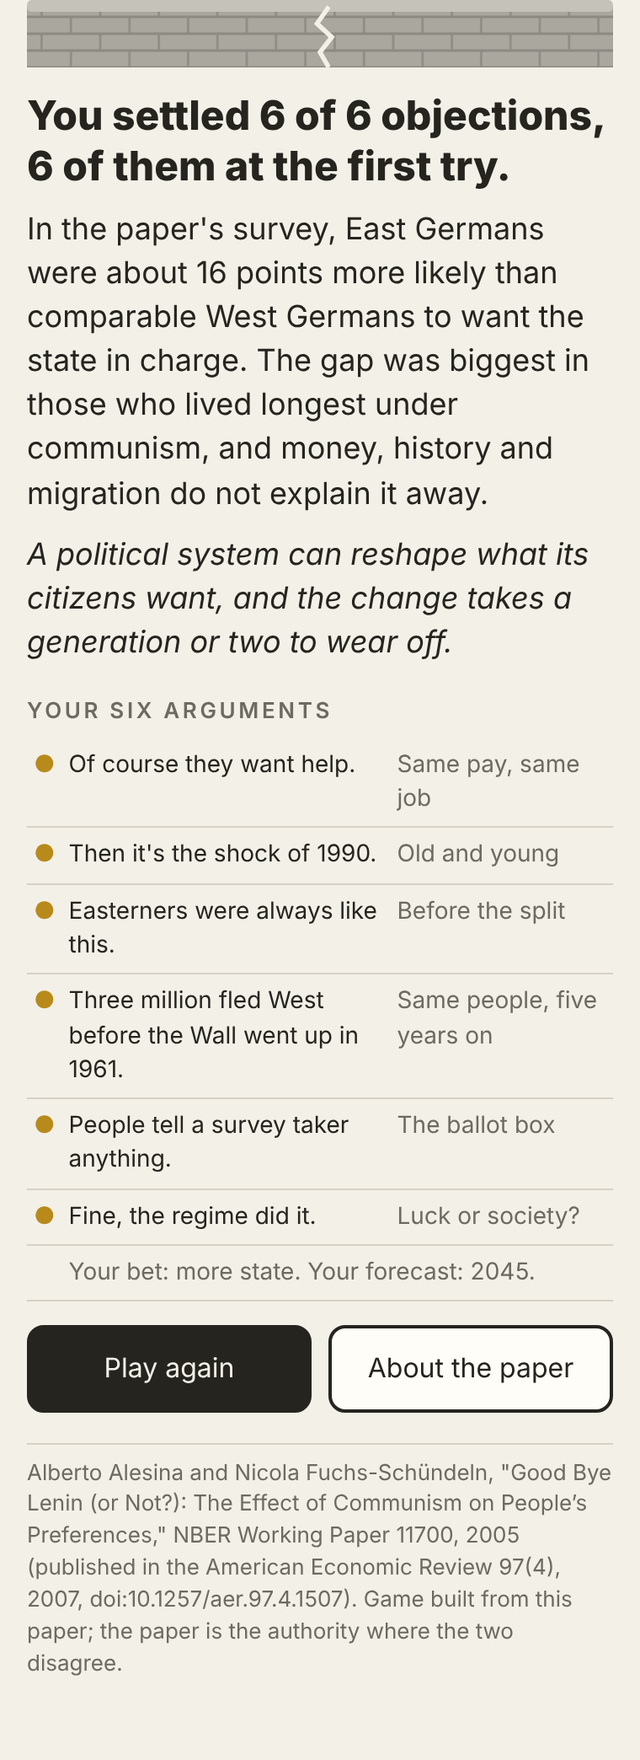
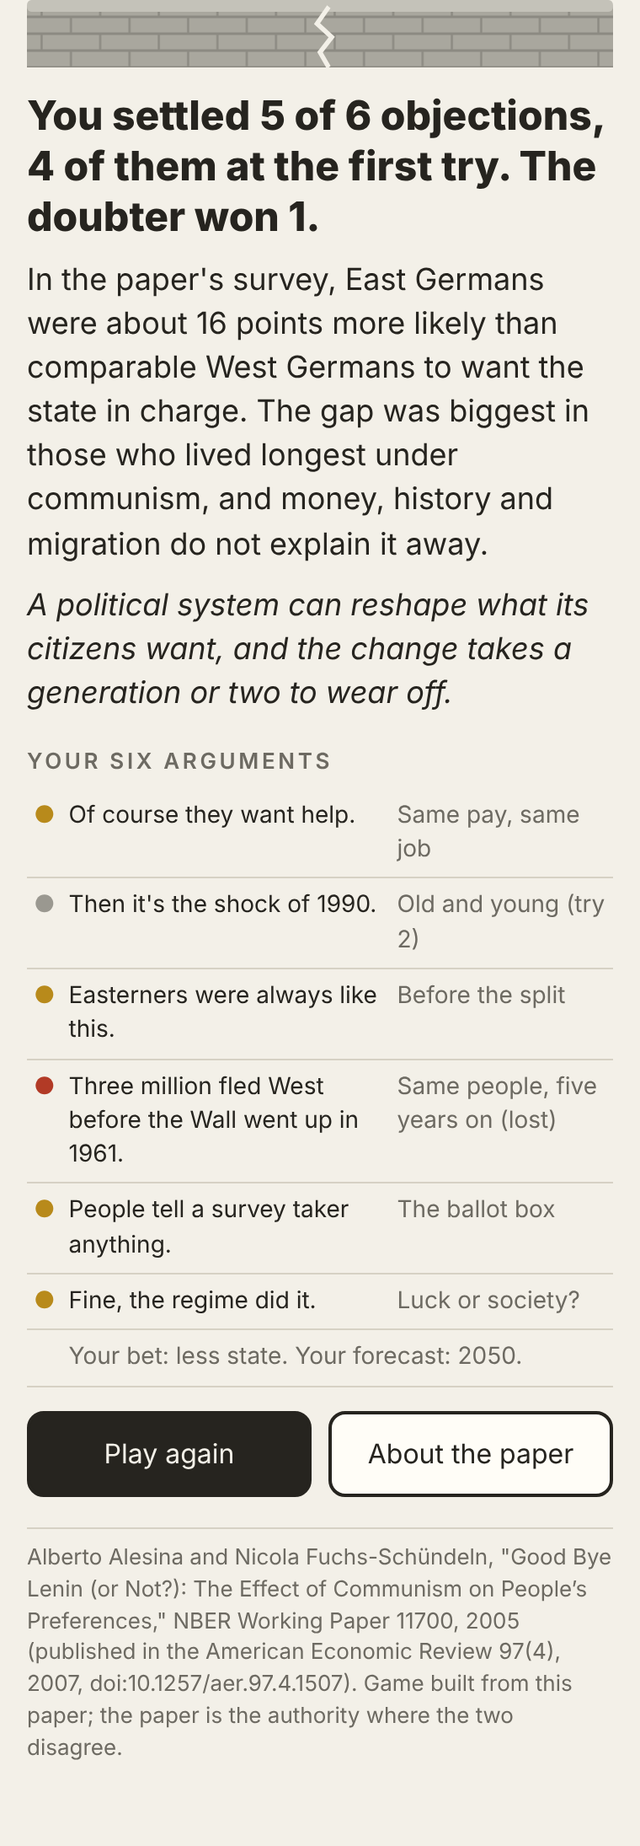
The Wall in the Head: bigger wall on the start screen, two tries per objection
Claude-Session: https://claude.ai/code/session_018niUhvwvFNKjF7UTj7qTmS

Changed region(s): [[0.0303, 0.0, 0.9684, 0.965]]

diff --git a/lenin/the-wall-in-the-head.html b/lenin/the-wall-in-the-head.html
@@ -12,6 +12,7 @@
   .screen { display:none; max-width:560px; margin:0 auto; padding:0 16px 40px; }
   .screen.on { display:block; }
   .wall { display:block; width:100%; height:44px; margin:0 0 6px; }
+  .bigwall { display:block; width:calc(100% + 32px); margin:0 -16px; height:260px; }
   h1 { font-size:34px; line-height:1.1; margin:22px 0 6px; letter-spacing:-.01em; }
   h2 { font-size:13px; letter-spacing:.14em; text-transform:uppercase; color:var(--dim); margin:18px 0 6px; font-weight:600; }
   p { margin:8px 0; }
@@ -29,6 +30,8 @@
   .pip.now { border-color:var(--ink); }
   .pip.first { background:var(--gold); border-color:var(--gold); }
   .pip.later { background:var(--concrete); border-color:var(--concrete); }
+  .pip.lost { background:var(--east); border-color:var(--east); }
+  .answer { margin-top:12px; padding-top:10px; border-top:2px dashed var(--line); }
   .doubter { display:flex; gap:10px; align-items:flex-start; margin:10px 0 6px; }
   .doubter svg { flex:0 0 52px; }
   .bubble { position:relative; background:var(--card); border:2px solid var(--ink); border-radius:14px; padding:10px 12px; font-size:17px; flex:1; }
@@ -98,7 +101,13 @@
 
 <!-- START -->
 <section class="screen on" id="s-start">
-  <div class="wallslot"></div>
+  <svg class="bigwall" viewBox="0 0 400 230" preserveAspectRatio="xMidYMid slice" aria-hidden="true">
+    <rect x="0" y="12" width="400" height="218" fill="url(#bricks)"/><rect x="0" y="0" width="400" height="16" rx="4" fill="#c4c2b9"/>
+    <path d="M206 0 L196 40 L212 78 L198 118 L214 160 L200 200 L208 230" stroke="#f3f0e8" stroke-width="7" fill="none" stroke-linejoin="round"/>
+    <path d="M206 0 L196 40 L212 78 L198 118 L214 160 L200 200 L208 230" stroke="#6d6a62" stroke-width="2" fill="none" stroke-linejoin="round" stroke-dasharray="6 9"/>
+    <text x="100" y="130" font-size="34" font-weight="800" fill="#f3f0e8" text-anchor="middle" opacity=".9">WEST</text>
+    <text x="300" y="130" font-size="34" font-weight="800" fill="#f3f0e8" text-anchor="middle" opacity=".9">EAST</text>
+  </svg>
   <h1>The Wall in the Head</h1>
   <p class="lede">For 45 years Germany was split in two. The East lived under a communist state that ran everything. In 1990 the Wall came down. What had those years done to what people want?</p>
   <div class="aim" id="aim-start"></div>
@@ -140,7 +149,7 @@
     <div class="bubble"><b>The doubter</b><span id="say"></span></div>
   </div>
   <div id="pick">
-    <p class="orient">Tap the evidence that settles this objection. Each card is a comparison from the study; it turns over to show what the study found.</p>
+    <p class="orient" id="orient">Tap the evidence that settles this objection. Each card is a comparison from the study; it turns over to show what the study found. Two tries per objection.</p>
     <div class="cards" id="cards"></div>
   </div>
   <div id="res" style="display:none">
@@ -185,7 +194,7 @@
   <p><b>The setting.</b> From 1945 to 1990 Germany was split. The split was decided by the armies that won the war, not by the Germans. The East became a communist state that ran jobs, prices, schools and the press. In 1990 the two halves were reunited under the West's system. A 2005 study compared what East and West Germans wanted from the state in 1997 and 2002.</p>
   <p><b>The bet.</b> One survey question, one guess: do East Germans want the state to look after them more or less than West Germans do? Two jars of 100 people show the answer.</p>
   <p><b>The doubter.</b> Six objections, one at a time. Each says the gap is not really caused by communism, or asks something you must answer. You hold seven evidence cards. Each is one comparison the study made. Tap the one that settles the objection. The card turns over and shows the study's numbers. If it doesn't settle the point, the doubter says why and you try another. You keep what you learnt.</p>
-  <p><b>The yardstick.</b> Each objection is settled at the first try (a gold dot) or after more tries (a grey dot). The verdict counts first tries out of six. A "point" on a card means one person in every 100.</p>
+  <p><b>The yardstick.</b> You get two tries per objection. Settled at the first try is a gold dot, at the second a grey dot. Miss twice and the doubter keeps the point (a red dot); you are shown the card the study plays, so you still learn it. The verdict counts objections settled, and first tries, out of six. A "point" on a card means one person in every 100.</p>
   <p><b>The forecast.</b> Drag a flag to the year you think the gap closes. The study's own forecast appears.</p>
   <p><b>What it shows.</b> Why the study believes that living under communism, and not poverty, history or migration, made people want more from the state.</p>
   <div class="row"><button class="primary" id="b-help-back">Back</button></div>
@@ -281,6 +290,7 @@ const CONFIG = {
   forecastMin: 1995,          // our choice: slider range for the closing forecast
   forecastMax: 2070,
   forecastStart: 2045,        // our choice: the flag starts away from the paper's band
+  maxTries: 2,                // our choice: a second chance, then the doubter wins the objection
 };
 
 // ---- Statistics --------------------------------------------------------------------------------
@@ -437,17 +447,24 @@ function judge(objIndex, cardId) {
 }
 
 // ---- Session state ------------------------------------------------------------------------------
-function newSession() { return { bet: null, obj: 0, tries: OBJECTIONS.map(() => 0), settled: OBJECTIONS.map(() => false), seen: {}, forecast: null }; }
+function newSession() { return { bet: null, obj: 0, tries: OBJECTIONS.map(() => 0), settled: OBJECTIONS.map(() => false), lost: OBJECTIONS.map(() => false), seen: {}, forecast: null }; }
 
+// One play of a card. After maxTries misses the objection is lost: the doubter keeps the point and the
+// player is shown the card the paper uses, so the lesson is not lost with it.
 function play(s, cardId) {
-  if (s.obj >= OBJECTIONS.length || s.settled[s.obj]) throw new Error('no open objection');
-  const r = judge(s.obj, cardId);
-  s.tries[s.obj] += 1; s.seen[cardId] = true;
-  if (r.ok) s.settled[s.obj] = true;
-  return Object.assign({ tries: s.tries[s.obj], firstTry: r.ok && s.tries[s.obj] === 1 }, r);
+  const i = s.obj;
+  if (i >= OBJECTIONS.length || s.settled[i] || s.lost[i]) throw new Error('no open objection');
+  const r = judge(i, cardId);
+  s.tries[i] += 1; s.seen[cardId] = true;
+  if (r.ok) s.settled[i] = true;
+  const lost = !r.ok && s.tries[i] >= CONFIG.maxTries;
+  if (lost) { s.lost[i] = true; s.seen[OBJECTIONS[i].answer] = true; }
+  return Object.assign({ tries: s.tries[i], triesLeft: CONFIG.maxTries - s.tries[i], firstTry: r.ok && s.tries[i] === 1, lost,
+    answer: lost ? cardById(OBJECTIONS[i].answer) : null }, r);
 }
-function advance(s) { if (s.settled[s.obj]) s.obj += 1; return s.obj; }
+function advance(s) { if (s.settled[s.obj] || s.lost[s.obj]) s.obj += 1; return s.obj; }
 function firstTries(s) { return s.tries.filter((t, i) => s.settled[i] && t === 1).length; }
+function lostCount(s) { return s.lost.filter(Boolean).length; }
 
 function forecastResult(year) {
   const lo = Math.round(D.closeLo), hi = Math.round(D.closeHi);
@@ -458,15 +475,15 @@ function forecastResult(year) {
 }
 
 function verdict(s) {
-  const n = s.settled.filter(Boolean).length, k = firstTries(s);
+  const n = s.settled.filter(Boolean).length, k = firstTries(s), l = lostCount(s);
   return {
-    you: `You settled ${n} of ${OBJECTIONS.length} objections, ${k} of them at the first try.`,
+    you: `You settled ${n} of ${OBJECTIONS.length} objections, ${k} of them at the first try.` + (l ? ` The doubter won ${l}.` : ''),
     paper: `In the paper's survey, East Germans were about ${pts(mean(D.eastPts))} points more likely than comparable West Germans to want the state in charge. The gap was biggest in those who lived longest under communism, and money, history and migration do not explain it away.`,
     means: 'A political system can reshape what its citizens want, and the change takes a generation or two to wear off.',
   };
 }
 
-const MECH = { CONFIG, Phi, PhiInv, pointsAt, interactionAt, derive, D, CARDS, OBJECTIONS, REBUTTALS, judge, newSession, play, advance, firstTries, betResult, forecastResult, verdict };
+const MECH = { CONFIG, Phi, PhiInv, pointsAt, interactionAt, derive, D, CARDS, OBJECTIONS, REBUTTALS, judge, newSession, play, advance, firstTries, lostCount, betResult, forecastResult, verdict };
 if (typeof module !== 'undefined') module.exports = MECH;
 </script>
 <script>
@@ -545,15 +562,16 @@ if (typeof module !== 'undefined') module.exports = MECH;
   // ---- doubter ----
   function renderPips() {
     $('pips').innerHTML = M.OBJECTIONS.map((o, i) => {
-      const cls = S.settled[i] ? (S.tries[i] === 1 ? 'first' : 'later') : (i === S.obj ? 'now' : '');
-      return `<div class="pip ${cls}">${S.settled[i] ? '✓' : ''}</div>`; }).join('');
+      const cls = S.settled[i] ? (S.tries[i] === 1 ? 'first' : 'later') : S.lost[i] ? 'lost' : (i === S.obj ? 'now' : '');
+      return `<div class="pip ${cls}">${S.settled[i] ? '✓' : S.lost[i] ? '✗' : ''}</div>`; }).join('');
     $('objn').textContent = 'Objection ' + Math.min(S.obj + 1, 6) + ' of 6';
   }
   function renderObjection() {
     const o = M.OBJECTIONS[S.obj];
     $('say').textContent = o.say; $('pick').style.display = 'block'; $('res').style.display = 'none';
     renderPips();
-    const used = new Set(M.OBJECTIONS.filter((x, i) => S.settled[i]).map(x => x.answer));
+    $('orient').textContent = S.tries[S.obj] ? 'Last try. Tap the card that settles this objection.' : 'Tap the evidence that settles this objection. Each card is a comparison from the study; it turns over to show what the study found. Two tries per objection.';
+    const used = new Set(M.OBJECTIONS.filter((x, i) => S.settled[i] || S.lost[i]).map(x => x.answer));
     $('cards').innerHTML = M.CARDS.map(c => `<button class="cardb ${used.has(c.id) ? 'used' : ''}" data-card="${c.id}">${used.has(c.id) ? '<span class="tag">used ✓</span>' : S.seen[c.id] ? '<span class="tag">seen</span>' : ''}<span class="t">${c.title}</span><span class="c">${c.compares}</span></button>`).join('');
     document.querySelectorAll('[data-card]').forEach(b => b.onclick = () => playCard(b.dataset.card));
   }
@@ -561,13 +579,16 @@ if (typeof module !== 'undefined') module.exports = MECH;
     const c = M.CARDS.find(x => x.id === id), r = M.play(S, id);
     $('pick').style.display = 'none'; $('res').style.display = 'block';
     const rc = $('res-card'); rc.classList.remove('flip'); void rc.offsetWidth; rc.classList.add('flip');
-    rc.innerHTML = `<div class="t">${c.title}</div><div class="src">${c.compares} · ${c.source}</div><div class="unit">${c.chart.unit}</div>${legend(c.chart)}${chart(c.chart)}<p class="finding">${r.finding}</p>`;
-    $('reply').className = 'reply ' + (r.ok ? 'ok' : 'no'); $('reply').textContent = 'Doubter: ' + r.line;
+    const cardHtml = (c, f) => `<div class="t">${c.title}</div><div class="src">${c.compares} · ${c.source}</div><div class="unit">${c.chart.unit}</div>${legend(c.chart)}${chart(c.chart)}<p class="finding">${f}</p>`;
+    rc.innerHTML = cardHtml(c, r.finding);
+    if (r.lost) rc.innerHTML += `<div class="answer"><div class="src" style="margin-bottom:6px">The card the study plays here:</div>${cardHtml(r.answer, r.answer.finding)}</div>`;
+    $('reply').className = 'reply ' + (r.ok ? 'ok' : 'no'); $('reply').textContent = 'Doubter: ' + r.line + (r.lost ? ' — I\'ll keep this one.' : '');
     $('yard').className = 'yard ' + (r.ok ? 'ok' : 'no');
-    $('yard').textContent = r.ok ? (r.firstTry ? '✓ Settled at the first try' : `✓ Settled on try ${r.tries}`) : '✗ Not settled. Try another card.';
-    $('b-next').textContent = r.ok ? (S.obj === M.OBJECTIONS.length - 1 ? 'On to the forecast' : 'Next objection') : 'Back to the cards';
+    $('yard').textContent = r.ok ? (r.firstTry ? '✓ Settled at the first try' : `✓ Settled on try ${r.tries}`) : r.lost ? '✗ Lost to the doubter' : `✗ Not settled. One more try.`;
+    const done = r.ok || r.lost;
+    $('b-next').textContent = done ? (S.obj === M.OBJECTIONS.length - 1 ? 'On to the forecast' : 'Next objection') : 'Back to the cards';
     $('b-next').onclick = () => {
-      if (!r.ok) { renderObjection(); window.scrollTo(0, 0); return; }
+      if (!done) { renderObjection(); window.scrollTo(0, 0); return; }
       M.advance(S); if (S.obj >= M.OBJECTIONS.length) startForecast(); else { renderObjection(); window.scrollTo(0, 0); }
     };
     renderPips();
@@ -597,7 +618,7 @@ if (typeof module !== 'undefined') module.exports = MECH;
   $('b-end').onclick = () => {
     const v = M.verdict(S);
     $('verdict').innerHTML = `<div class="you">${v.you}</div><div class="paper">${v.paper}</div><div class="means">${v.means}</div>`;
-    $('tally').innerHTML = M.OBJECTIONS.map((o, i) => `<tr><td>${S.tries[i] === 1 ? '<b style="color:var(--gold)">●</b>' : '<b style="color:var(--concrete)">●</b>'}</td><td>${o.say.split('.')[0]}.</td><td>${M.CARDS.find(c => c.id === o.answer).title}${S.tries[i] > 1 ? ` <span class="muted">(try ${S.tries[i]})</span>` : ''}</td></tr>`).join('')
+    $('tally').innerHTML = M.OBJECTIONS.map((o, i) => `<tr><td>${S.lost[i] ? '<b style="color:var(--east)">●</b>' : S.tries[i] === 1 ? '<b style="color:var(--gold)">●</b>' : '<b style="color:var(--concrete)">●</b>'}</td><td>${o.say.split('.')[0]}.</td><td>${M.CARDS.find(c => c.id === o.answer).title}${S.lost[i] ? ' <span class="muted">(lost)</span>' : S.tries[i] > 1 ? ` <span class="muted">(try ${S.tries[i]})</span>` : ''}</td></tr>`).join('')
       + `<tr><td></td><td colspan="2">Your bet: ${S.bet === 'more' ? 'more' : 'less'} state. Your forecast: ${S.forecast}.</td></tr>`;
     show('s-end');
   };

diff --git a/lenin/template.html b/lenin/template.html
@@ -12,6 +12,7 @@
   .screen { display:none; max-width:560px; margin:0 auto; padding:0 16px 40px; }
   .screen.on { display:block; }
   .wall { display:block; width:100%; height:44px; margin:0 0 6px; }
+  .bigwall { display:block; width:calc(100% + 32px); margin:0 -16px; height:260px; }
   h1 { font-size:34px; line-height:1.1; margin:22px 0 6px; letter-spacing:-.01em; }
   h2 { font-size:13px; letter-spacing:.14em; text-transform:uppercase; color:var(--dim); margin:18px 0 6px; font-weight:600; }
   p { margin:8px 0; }
@@ -29,6 +30,8 @@
   .pip.now { border-color:var(--ink); }
   .pip.first { background:var(--gold); border-color:var(--gold); }
   .pip.later { background:var(--concrete); border-color:var(--concrete); }
+  .pip.lost { background:var(--east); border-color:var(--east); }
+  .answer { margin-top:12px; padding-top:10px; border-top:2px dashed var(--line); }
   .doubter { display:flex; gap:10px; align-items:flex-start; margin:10px 0 6px; }
   .doubter svg { flex:0 0 52px; }
   .bubble { position:relative; background:var(--card); border:2px solid var(--ink); border-radius:14px; padding:10px 12px; font-size:17px; flex:1; }
@@ -98,7 +101,13 @@
 
 <!-- START -->
 <section class="screen on" id="s-start">
-  <div class="wallslot"></div>
+  <svg class="bigwall" viewBox="0 0 400 230" preserveAspectRatio="xMidYMid slice" aria-hidden="true">
+    <rect x="0" y="12" width="400" height="218" fill="url(#bricks)"/><rect x="0" y="0" width="400" height="16" rx="4" fill="#c4c2b9"/>
+    <path d="M206 0 L196 40 L212 78 L198 118 L214 160 L200 200 L208 230" stroke="#f3f0e8" stroke-width="7" fill="none" stroke-linejoin="round"/>
+    <path d="M206 0 L196 40 L212 78 L198 118 L214 160 L200 200 L208 230" stroke="#6d6a62" stroke-width="2" fill="none" stroke-linejoin="round" stroke-dasharray="6 9"/>
+    <text x="100" y="130" font-size="34" font-weight="800" fill="#f3f0e8" text-anchor="middle" opacity=".9">WEST</text>
+    <text x="300" y="130" font-size="34" font-weight="800" fill="#f3f0e8" text-anchor="middle" opacity=".9">EAST</text>
+  </svg>
   <h1>The Wall in the Head</h1>
   <p class="lede">For 45 years Germany was split in two. The East lived under a communist state that ran everything. In 1990 the Wall came down. What had those years done to what people want?</p>
   <div class="aim" id="aim-start"></div>
@@ -140,7 +149,7 @@
     <div class="bubble"><b>The doubter</b><span id="say"></span></div>
   </div>
   <div id="pick">
-    <p class="orient">Tap the evidence that settles this objection. Each card is a comparison from the study; it turns over to show what the study found.</p>
+    <p class="orient" id="orient">Tap the evidence that settles this objection. Each card is a comparison from the study; it turns over to show what the study found. Two tries per objection.</p>
     <div class="cards" id="cards"></div>
   </div>
   <div id="res" style="display:none">
@@ -185,7 +194,7 @@
   <p><b>The setting.</b> From 1945 to 1990 Germany was split. The split was decided by the armies that won the war, not by the Germans. The East became a communist state that ran jobs, prices, schools and the press. In 1990 the two halves were reunited under the West's system. A 2005 study compared what East and West Germans wanted from the state in 1997 and 2002.</p>
   <p><b>The bet.</b> One survey question, one guess: do East Germans want the state to look after them more or less than West Germans do? Two jars of 100 people show the answer.</p>
   <p><b>The doubter.</b> Six objections, one at a time. Each says the gap is not really caused by communism, or asks something you must answer. You hold seven evidence cards. Each is one comparison the study made. Tap the one that settles the objection. The card turns over and shows the study's numbers. If it doesn't settle the point, the doubter says why and you try another. You keep what you learnt.</p>
-  <p><b>The yardstick.</b> Each objection is settled at the first try (a gold dot) or after more tries (a grey dot). The verdict counts first tries out of six. A "point" on a card means one person in every 100.</p>
+  <p><b>The yardstick.</b> You get two tries per objection. Settled at the first try is a gold dot, at the second a grey dot. Miss twice and the doubter keeps the point (a red dot); you are shown the card the study plays, so you still learn it. The verdict counts objections settled, and first tries, out of six. A "point" on a card means one person in every 100.</p>
   <p><b>The forecast.</b> Drag a flag to the year you think the gap closes. The study's own forecast appears.</p>
   <p><b>What it shows.</b> Why the study believes that living under communism, and not poverty, history or migration, made people want more from the state.</p>
   <div class="row"><button class="primary" id="b-help-back">Back</button></div>
@@ -277,15 +286,16 @@
   // ---- doubter ----
   function renderPips() {
     $('pips').innerHTML = M.OBJECTIONS.map((o, i) => {
-      const cls = S.settled[i] ? (S.tries[i] === 1 ? 'first' : 'later') : (i === S.obj ? 'now' : '');
-      return `<div class="pip ${cls}">${S.settled[i] ? '✓' : ''}</div>`; }).join('');
+      const cls = S.settled[i] ? (S.tries[i] === 1 ? 'first' : 'later') : S.lost[i] ? 'lost' : (i === S.obj ? 'now' : '');
+      return `<div class="pip ${cls}">${S.settled[i] ? '✓' : S.lost[i] ? '✗' : ''}</div>`; }).join('');
     $('objn').textContent = 'Objection ' + Math.min(S.obj + 1, 6) + ' of 6';
   }
   function renderObjection() {
     const o = M.OBJECTIONS[S.obj];
     $('say').textContent = o.say; $('pick').style.display = 'block'; $('res').style.display = 'none';
     renderPips();
-    const used = new Set(M.OBJECTIONS.filter((x, i) => S.settled[i]).map(x => x.answer));
+    $('orient').textContent = S.tries[S.obj] ? 'Last try. Tap the card that settles this objection.' : 'Tap the evidence that settles this objection. Each card is a comparison from the study; it turns over to show what the study found. Two tries per objection.';
+    const used = new Set(M.OBJECTIONS.filter((x, i) => S.settled[i] || S.lost[i]).map(x => x.answer));
     $('cards').innerHTML = M.CARDS.map(c => `<button class="cardb ${used.has(c.id) ? 'used' : ''}" data-card="${c.id}">${used.has(c.id) ? '<span class="tag">used ✓</span>' : S.seen[c.id] ? '<span class="tag">seen</span>' : ''}<span class="t">${c.title}</span><span class="c">${c.compares}</span></button>`).join('');
     document.querySelectorAll('[data-card]').forEach(b => b.onclick = () => playCard(b.dataset.card));
   }
@@ -293,13 +303,16 @@
     const c = M.CARDS.find(x => x.id === id), r = M.play(S, id);
     $('pick').style.display = 'none'; $('res').style.display = 'block';
     const rc = $('res-card'); rc.classList.remove('flip'); void rc.offsetWidth; rc.classList.add('flip');
-    rc.innerHTML = `<div class="t">${c.title}</div><div class="src">${c.compares} · ${c.source}</div><div class="unit">${c.chart.unit}</div>${legend(c.chart)}${chart(c.chart)}<p class="finding">${r.finding}</p>`;
-    $('reply').className = 'reply ' + (r.ok ? 'ok' : 'no'); $('reply').textContent = 'Doubter: ' + r.line;
+    const cardHtml = (c, f) => `<div class="t">${c.title}</div><div class="src">${c.compares} · ${c.source}</div><div class="unit">${c.chart.unit}</div>${legend(c.chart)}${chart(c.chart)}<p class="finding">${f}</p>`;
+    rc.innerHTML = cardHtml(c, r.finding);
+    if (r.lost) rc.innerHTML += `<div class="answer"><div class="src" style="margin-bottom:6px">The card the study plays here:</div>${cardHtml(r.answer, r.answer.finding)}</div>`;
+    $('reply').className = 'reply ' + (r.ok ? 'ok' : 'no'); $('reply').textContent = 'Doubter: ' + r.line + (r.lost ? ' — I\'ll keep this one.' : '');
     $('yard').className = 'yard ' + (r.ok ? 'ok' : 'no');
-    $('yard').textContent = r.ok ? (r.firstTry ? '✓ Settled at the first try' : `✓ Settled on try ${r.tries}`) : '✗ Not settled. Try another card.';
-    $('b-next').textContent = r.ok ? (S.obj === M.OBJECTIONS.length - 1 ? 'On to the forecast' : 'Next objection') : 'Back to the cards';
+    $('yard').textContent = r.ok ? (r.firstTry ? '✓ Settled at the first try' : `✓ Settled on try ${r.tries}`) : r.lost ? '✗ Lost to the doubter' : `✗ Not settled. One more try.`;
+    const done = r.ok || r.lost;
+    $('b-next').textContent = done ? (S.obj === M.OBJECTIONS.length - 1 ? 'On to the forecast' : 'Next objection') : 'Back to the cards';
     $('b-next').onclick = () => {
-      if (!r.ok) { renderObjection(); window.scrollTo(0, 0); return; }
+      if (!done) { renderObjection(); window.scrollTo(0, 0); return; }
       M.advance(S); if (S.obj >= M.OBJECTIONS.length) startForecast(); else { renderObjection(); window.scrollTo(0, 0); }
     };
     renderPips();
@@ -329,7 +342,7 @@
   $('b-end').onclick = () => {
     const v = M.verdict(S);
     $('verdict').innerHTML = `<div class="you">${v.you}</div><div class="paper">${v.paper}</div><div class="means">${v.means}</div>`;
-    $('tally').innerHTML = M.OBJECTIONS.map((o, i) => `<tr><td>${S.tries[i] === 1 ? '<b style="color:var(--gold)">●</b>' : '<b style="color:var(--concrete)">●</b>'}</td><td>${o.say.split('.')[0]}.</td><td>${M.CARDS.find(c => c.id === o.answer).title}${S.tries[i] > 1 ? ` <span class="muted">(try ${S.tries[i]})</span>` : ''}</td></tr>`).join('')
+    $('tally').innerHTML = M.OBJECTIONS.map((o, i) => `<tr><td>${S.lost[i] ? '<b style="color:var(--east)">●</b>' : S.tries[i] === 1 ? '<b style="color:var(--gold)">●</b>' : '<b style="color:var(--concrete)">●</b>'}</td><td>${o.say.split('.')[0]}.</td><td>${M.CARDS.find(c => c.id === o.answer).title}${S.lost[i] ? ' <span class="muted">(lost)</span>' : S.tries[i] > 1 ? ` <span class="muted">(try ${S.tries[i]})</span>` : ''}</td></tr>`).join('')
       + `<tr><td></td><td colspan="2">Your bet: ${S.bet === 'more' ? 'more' : 'less'} state. Your forecast: ${S.forecast}.</td></tr>`;
     show('s-end');
   };

diff --git a/lenin/mechanism.js b/lenin/mechanism.js
@@ -63,6 +63,7 @@ const CONFIG = {
   forecastMin: 1995,          // our choice: slider range for the closing forecast
   forecastMax: 2070,
   forecastStart: 2045,        // our choice: the flag starts away from the paper's band
+  maxTries: 2,                // our choice: a second chance, then the doubter wins the objection
 };
 
 // ---- Statistics --------------------------------------------------------------------------------
@@ -219,17 +220,24 @@ function judge(objIndex, cardId) {
 }
 
 // ---- Session state ------------------------------------------------------------------------------
-function newSession() { return { bet: null, obj: 0, tries: OBJECTIONS.map(() => 0), settled: OBJECTIONS.map(() => false), seen: {}, forecast: null }; }
+function newSession() { return { bet: null, obj: 0, tries: OBJECTIONS.map(() => 0), settled: OBJECTIONS.map(() => false), lost: OBJECTIONS.map(() => false), seen: {}, forecast: null }; }
 
+// One play of a card. After maxTries misses the objection is lost: the doubter keeps the point and the
+// player is shown the card the paper uses, so the lesson is not lost with it.
 function play(s, cardId) {
-  if (s.obj >= OBJECTIONS.length || s.settled[s.obj]) throw new Error('no open objection');
-  const r = judge(s.obj, cardId);
-  s.tries[s.obj] += 1; s.seen[cardId] = true;
-  if (r.ok) s.settled[s.obj] = true;
-  return Object.assign({ tries: s.tries[s.obj], firstTry: r.ok && s.tries[s.obj] === 1 }, r);
+  const i = s.obj;
+  if (i >= OBJECTIONS.length || s.settled[i] || s.lost[i]) throw new Error('no open objection');
+  const r = judge(i, cardId);
+  s.tries[i] += 1; s.seen[cardId] = true;
+  if (r.ok) s.settled[i] = true;
+  const lost = !r.ok && s.tries[i] >= CONFIG.maxTries;
+  if (lost) { s.lost[i] = true; s.seen[OBJECTIONS[i].answer] = true; }
+  return Object.assign({ tries: s.tries[i], triesLeft: CONFIG.maxTries - s.tries[i], firstTry: r.ok && s.tries[i] === 1, lost,
+    answer: lost ? cardById(OBJECTIONS[i].answer) : null }, r);
 }
-function advance(s) { if (s.settled[s.obj]) s.obj += 1; return s.obj; }
+function advance(s) { if (s.settled[s.obj] || s.lost[s.obj]) s.obj += 1; return s.obj; }
 function firstTries(s) { return s.tries.filter((t, i) => s.settled[i] && t === 1).length; }
+function lostCount(s) { return s.lost.filter(Boolean).length; }
 
 function forecastResult(year) {
   const lo = Math.round(D.closeLo), hi = Math.round(D.closeHi);
@@ -240,13 +248,13 @@ function forecastResult(year) {
 }
 
 function verdict(s) {
-  const n = s.settled.filter(Boolean).length, k = firstTries(s);
+  const n = s.settled.filter(Boolean).length, k = firstTries(s), l = lostCount(s);
   return {
-    you: `You settled ${n} of ${OBJECTIONS.length} objections, ${k} of them at the first try.`,
+    you: `You settled ${n} of ${OBJECTIONS.length} objections, ${k} of them at the first try.` + (l ? ` The doubter won ${l}.` : ''),
     paper: `In the paper's survey, East Germans were about ${pts(mean(D.eastPts))} points more likely than comparable West Germans to want the state in charge. The gap was biggest in those who lived longest under communism, and money, history and migration do not explain it away.`,
     means: 'A political system can reshape what its citizens want, and the change takes a generation or two to wear off.',
   };
 }
 
-const MECH = { CONFIG, Phi, PhiInv, pointsAt, interactionAt, derive, D, CARDS, OBJECTIONS, REBUTTALS, judge, newSession, play, advance, firstTries, betResult, forecastResult, verdict };
+const MECH = { CONFIG, Phi, PhiInv, pointsAt, interactionAt, derive, D, CARDS, OBJECTIONS, REBUTTALS, judge, newSession, play, advance, firstTries, lostCount, betResult, forecastResult, verdict };
 if (typeof module !== 'undefined') module.exports = MECH;

diff --git a/lenin/fidelity.js b/lenin/fidelity.js
@@ -51,8 +51,11 @@ let s = M.newSession(); M.OBJECTIONS.forEach((o, i) => { M.play(s, o.answer); M.
 check('(j3) perfect run scores 6/6 first tries', M.firstTries(s) === 6, M.verdict(s).you);
 let seed = 7; const rnd = () => (seed = (seed * 16807) % 2147483647) / 2147483647;
 let tot = 0; const N = 2000;
-for (let k = 0; k < N; k++) { const t = M.newSession(); while (t.obj < M.OBJECTIONS.length) { const left = ids.filter(id => true); const r = M.play(t, left[Math.floor(rnd() * left.length)]); if (r.ok) M.advance(t); } tot += M.firstTries(t); }
-check('(j4) random tapping averages well below 6', tot / N < 1.5, `mean first tries ${(tot / N).toFixed(2)} of 6 over ${N} sessions`);
+let lostTot = 0;
+for (let k = 0; k < N; k++) { const t = M.newSession(); while (t.obj < M.OBJECTIONS.length) { const r = M.play(t, ids[Math.floor(rnd() * ids.length)]); if (r.ok || r.lost) M.advance(t); } tot += M.firstTries(t); lostTot += M.lostCount(t); }
+check('(j4) random tapping averages well below 6', tot / N < 1.5, `mean first tries ${(tot / N).toFixed(2)} of 6, lost ${(lostTot / N).toFixed(2)} of 6, over ${N} sessions`);
+let u = M.newSession(); const r1 = M.play(u, 'ballot'), r2 = M.play(u, 'movers');
+check('(j4b) two misses lose the objection and reveal the paper\'s card', !r1.lost && r1.triesLeft === 1 && r2.lost && r2.answer.id === 'income' && M.advance(u) === 1 && M.verdict(u).you.includes('doubter won 1'), M.verdict(u).you);
 check('(j5) bet: "more" is right, jars show 63 vs 79', M.betResult('more').right && !M.betResult('less').right && M.betResult('more').west === 63 && M.betResult('more').east === 79);
 const fr = M.forecastResult(2020);
 check('(j6) forecast band matches (c2)', fr.inside && fr.lo === Math.round(D.closeLo) && fr.hi === Math.round(D.closeHi), fr.head);

diff --git a/lenin/session-test.js b/lenin/session-test.js
@@ -15,7 +15,7 @@ const D = (process.argv[2] || require('os').tmpdir()) + '/';
   console.log('BET:', await txt('#bet-head'));
   await p.screenshot({ path: D + 'screenshot-bet.png', fullPage: true });
   await p.click('#b-to-play');
-  const plan = [['income'], ['panel', 'cohort'], ['before'], ['movers', 'panel'], ['ballot'], ['beliefs']];
+  const plan = [['income'], ['panel', 'cohort'], ['before'], ['movers', 'ballot'], ['ballot'], ['beliefs']]; // objection 4 is lost on purpose
   for (let i = 0; i < plan.length; i++) {
     console.log(`\nOBJ ${i + 1}: ${await txt('#say')}`);
     if (i === 1) { await p.click('#s-play button.q'); console.log('  help on:', await on('#s-help')); await p.click('#b-help-back'); console.log('  back to play:', await on('#s-play'), '| cards visible:', await p.$eval('#pick', e => e.style.display !== 'none')); }
@@ -23,8 +23,8 @@ const D = (process.argv[2] || require('os').tmpdir()) + '/';
       await p.click(`[data-card=${c}]`); await p.waitForTimeout(500);
       console.log(`  ${c}: ${await txt('#yard')} — ${await txt('#reply')}`);
       if (i === 1 && c === 'cohort') await p.screenshot({ path: D + 'screenshot-cohort.png', fullPage: true });
-      if (i === 3 && c === 'movers') await p.screenshot({ path: D + 'screenshot-wrong.png', fullPage: true });
-      if (i === 0) await p.screenshot({ path: D + 'screenshot-play.png', fullPage: true });
+      if (i === 3 && c === 'ballot') await p.screenshot({ path: D + 'screenshot-lost.png', fullPage: true });
+      
       await p.click('#b-next');
     }
   }

diff --git a/lenin/memo.md b/lenin/memo.md
@@ -44,9 +44,9 @@ Correlation and causation: the player never moves a lever that changes preferenc
 ## 6. The aim and the verdict
 
 - **Aim (start screen and top of play):** "Prove to a doubter that living under communism changed what people want."
-- **Per objection:** "Pick the one piece of evidence that settles this." The yardstick is in the same units: settled at the first try, or after *n* tries.
+- **Per objection:** "Pick the one piece of evidence that settles this." The yardstick is in the same units: settled at the first try, settled at the second, or lost to the doubter.
 - **Verdict (top of end screen):**
-  - *You:* settled all 6 objections, *k* of them at the first try.
+  - *You:* settled *n* of 6 objections, *k* of them at the first try; the doubter won the rest.
   - *The paper:* in the paper's survey, East Germans were about 16 points more likely to want the state in charge. The gap was biggest among those who lived longest under communism, and income, history and migration do not explain it away.
   - *What it means:* a political system can reshape what its citizens want, and the change takes a generation or two to wear off.
 
@@ -105,7 +105,7 @@ The game takes about five minutes (an estimate; not timed by a person), in three
    Poverty comes first because it is everyone's first thought. The dose comes second so the strongest finding arrives early.
 3. **The forecast:** drag a flag to a year, then reveal.
 
-No presets: the objections are the paper's own robustness sections. The score is per objection (first try or not), and the session verdict counts first tries out of 6. There is no running point total.
+No presets: the objections are the paper's own robustness sections. Two tries per objection: a second miss loses the objection to the doubter, and the card the paper plays is shown so the lesson survives the loss. The score is per objection (first try, second try, or lost), and the session verdict counts objections settled and first tries out of 6. There is no running point total.
 
 ## 11. Controls, mechanism, feedback, moment
 
@@ -183,3 +183,4 @@ The paper's imagery is two survey samples on either side of a line. Rules:
 4. Screenshots at 380 px: start, bet, card grid, a settled card, the cohort card, a wrong card, forecast, end. One fix from the screenshots: the end-screen table squeezed the objection column.
 5. Builder's self-review: the aim can be stated from the start screen alone ("prove to a doubter that communism changed what people want"); the discovery can be stated from the top of the end screen alone (East Germans want about 16 points more state; the gap grows with years under communism; it is not money, history or migration). This is the builder's review, not stranger testing.
 6. `session-test.js` drove the final page through a full session at 380 px with two wrong cards, the help page opened and returned from mid-play, a forecast, the verdict, and a retry: no console errors, no horizontal scroll (scrollWidth 380). Session length is an estimate of about five minutes; a person has not timed it.
+7. Revision after the author's first play: the start-screen wall made much bigger (a 260 px cracked wall with WEST and EAST on it), and a two-try rule added in `mechanism.js` (`CONFIG.maxTries`): a second miss loses the objection to the doubter, marked red, and the paper's card is shown beneath the wrong one. Fidelity check (j4b) covers the rule; the session test now loses objection 4 on purpose. All 25 checks pass; the browser session runs clean at 380 px.
